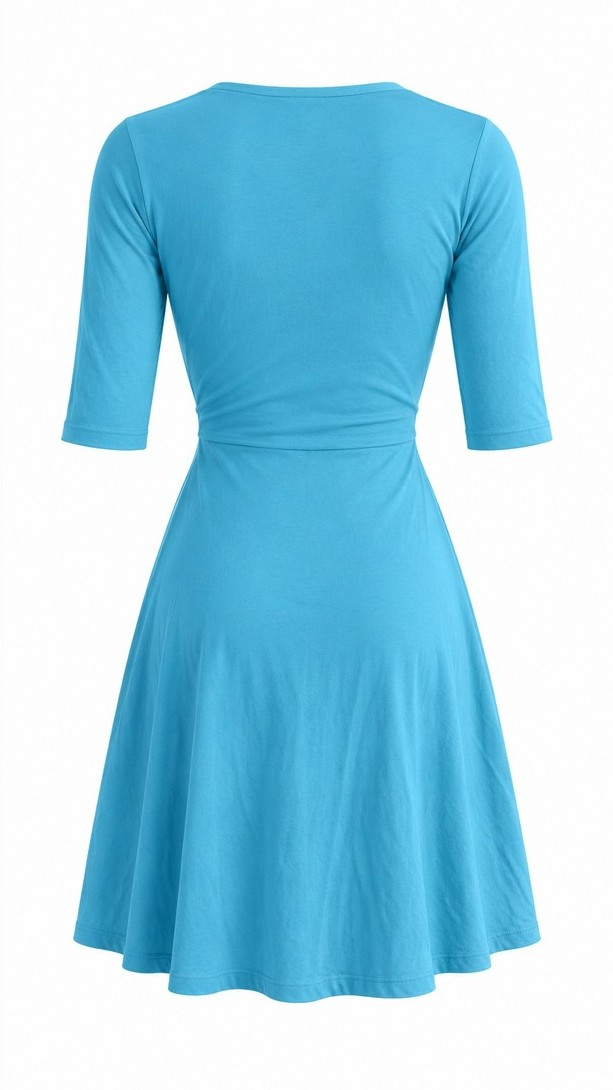
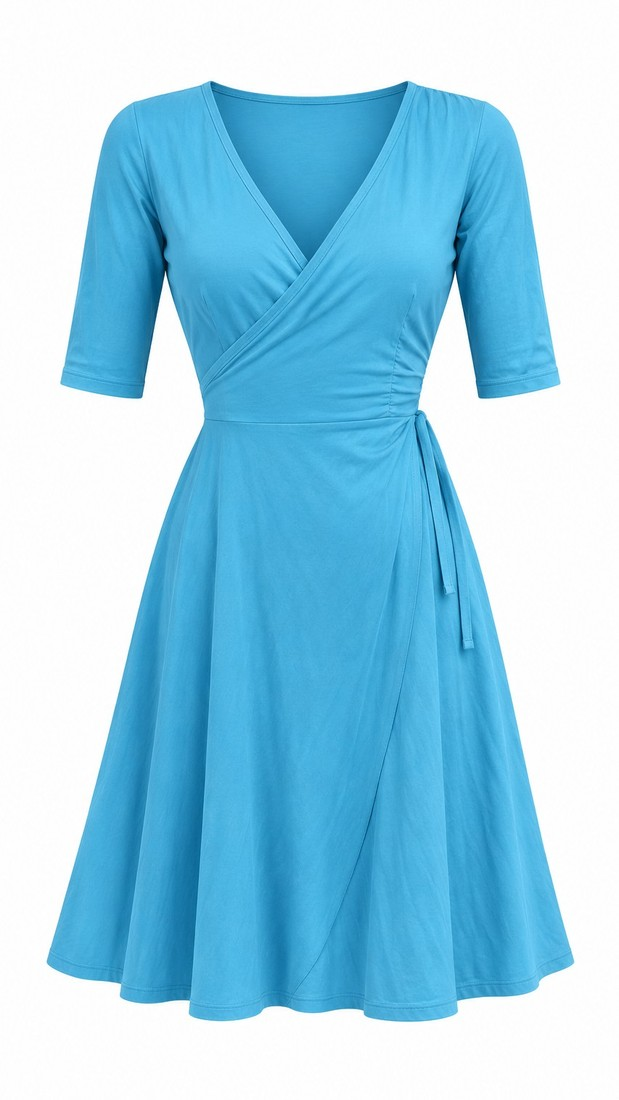
Обновление каталога 04.10.2026 22:07

diff --git a/docs/index.html b/docs/index.html
@@ -178,6 +178,33 @@
     border: 0; border-radius: 18px; background: var(--surface); cursor: pointer; font-size: 20px; line-height: 1;
   }
   .note { font-size: 16px; color: var(--muted); border-left: 2px solid var(--line); padding-left: 12px; font-style: italic; }
+  button.order { border: 0; width: 100%; cursor: pointer; font-family: inherit; }
+  .order.incart { background: var(--ink); }
+  .quick { align-self: center; font-size: 15px; color: var(--muted); font-style: italic; }
+  .quick a { color: inherit; }
+  .incart-mark { position: absolute; right: 8px; top: 8px; padding: 4px 9px; font-size: 12px; font-weight: 700; letter-spacing: .12em;
+                 text-transform: uppercase; background: var(--accent); color: var(--accent-ink); }
+  .cartbtn { position: fixed; right: 16px; bottom: calc(16px + env(safe-area-inset-bottom)); z-index: 5; display: none;
+             align-items: center; gap: 10px; min-height: 52px; padding: 0 20px; border: 0; cursor: pointer;
+             background: var(--accent); color: var(--accent-ink); font: 700 15px var(--body); letter-spacing: .14em; text-transform: uppercase;
+             box-shadow: 0 6px 24px rgba(20, 20, 20, .18); }
+  .cartbtn.show { display: inline-flex; }
+  .cartbtn b { display: inline-grid; place-items: center; min-width: 26px; height: 26px; border-radius: 13px; background: var(--accent-ink); color: var(--accent); font-size: 14px; letter-spacing: 0; }
+  #cartDlg { width: min(560px, calc(100vw - 32px)); max-height: calc(100dvh - 32px); padding: 0; border: 0; background: var(--ground); color: var(--ink); }
+  #cartDlg::backdrop { background: rgba(20, 20, 20, .55); }
+  .cart { padding: 24px; display: grid; gap: 16px; }
+  .cart h3 { margin: 0; font: 400 30px var(--display); }
+  .cart ul { list-style: none; margin: 0; padding: 0; display: grid; gap: 12px; }
+  .cart li { display: grid; grid-template-columns: 56px 1fr auto auto; gap: 12px; align-items: center; border-bottom: 1px solid var(--line); padding-bottom: 12px; }
+  .cart li img { width: 56px; aspect-ratio: 9 / 16; object-fit: cover; background: var(--surface); display: block; }
+  .cart .t { font-weight: 600; font-size: 17px; }
+  .cart .s { color: var(--muted); font-size: 14px; letter-spacing: .06em; }
+  .cart .pr { font-weight: 700; font-variant-numeric: tabular-nums; white-space: nowrap; }
+  .cart .rm { border: 0; background: none; font-size: 22px; line-height: 1; cursor: pointer; color: var(--muted); padding: 4px 6px; }
+  .cart .total { display: flex; justify-content: space-between; font-size: 20px; font-weight: 700; }
+  .cart .after { margin: 0; color: var(--muted); font-style: italic; font-size: 15px; }
+  .cart .empty-cart { color: var(--muted); font-style: italic; margin: 0; }
+  .cart .clear { justify-self: center; border: 0; background: none; color: var(--muted); text-decoration: underline; cursor: pointer; font: italic 15px var(--body); }
 
   @media (prefers-reduced-motion: reduce) { * { transition: none !important; scroll-behavior: auto !important; } }
 </style>
@@ -188,7 +215,7 @@
     <img class="logo" src="logo.png" alt="Shantisa by Mila Tumanova" width="650" height="174">
     <p class="tagline">Мы не создаём платья — мы создаём состояния</p>
     <h1>Архив Shantisa. Последние вещи, созданные <em>Милой Тумановой.</em></h1>
-    <p class="lede">Каждая вещь в одном экземпляре, повторов не будет. Выберите вещь, нажмите «Заказать» — менеджер ответит в Telegram и всё оформит.</p>
+    <p class="lede">Каждая вещь в одном экземпляре, повторов не будет. Добавьте понравившиеся вещи в корзину и отправьте заказ — менеджер ответит в Telegram и всё оформит.</p>
   </header>
 
   <div class="bar" role="toolbar" aria-label="Фильтр">
@@ -205,7 +232,7 @@
   <section class="how" id="how">
     <h2>Как купить</h2>
     <ol class="steps">
-      <li><b>Напишите менеджеру</b><span>Кнопка «Заказать» в карточке вещи откроет Telegram с уже написанным артикулом.</span></li>
+      <li><b>Соберите корзину</b><span>Добавьте вещи в корзину и нажмите «Отправить менеджеру» — откроется Telegram с готовым списком.</span></li>
       <li><b>Бронь на 24 часа</b><span>Менеджер подтвердит наличие, ответит про посадку и посчитает доставку.</span></li>
       <li><b>Оплата переводом по СБП</b><span>Пришлём ссылку на перевод с точной суммой. Реквизиты — только в переписке.</span></li>
       <li><b>Отправка и трек-номер</b><span>Отправляем в течение 2 дней после оплаты и присылаем трек.</span></li>
@@ -225,6 +252,13 @@
   </footer>
 </div>
 
+<button class="cartbtn" id="cartBtn" type="button" aria-label="Открыть корзину">Корзина <b id="cartCount">0</b></button>
+
+<dialog id="cartDlg" aria-labelledby="cartTitle">
+  <button class="close" id="cartClose" aria-label="Закрыть">×</button>
+  <div class="cart" id="cart"></div>
+</dialog>
+
 <dialog id="dlg" aria-labelledby="dlgTitle">
   <button class="close" id="dlgClose" aria-label="Закрыть">×</button>
   <div class="sheet" id="sheet"></div>
@@ -234,7 +268,7 @@
   // Telegram-ник менеджера, без @. Заменить перед публикацией.
   const MANAGER = "QqoldGM";
 </script>
-<script src="products.js?v=fbef33b4"></script>
+<script src="products.js?v=c13703e4"></script>
 <script>
 (function () {
   const items = window.PRODUCTS || [];
@@ -256,6 +290,48 @@
   const tagFor = (p) => p.status === "sold" ? "Продано" : p.status === "reserved" ? "В брони" : "";
 
   $("footerTg").href = tgLink("Здравствуйте! У меня вопрос про архив Shantisa.");
+
+  // Корзина: артикулы выбранных вещей, хранятся только в браузере покупательницы.
+  const byVariant = {};
+  items.forEach((p) => p.variants.forEach((v) => { byVariant[v.id] = { p, v }; }));
+  let cart = [];
+  try { cart = JSON.parse(localStorage.getItem("shantisa-cart") || "[]"); } catch (e) { cart = []; }
+  cart = cart.filter((id, i, a) => byVariant[id] && byVariant[id].v.status === "available" && a.indexOf(id) === i);
+  const saveCart = () => {
+    try { localStorage.setItem("shantisa-cart", JSON.stringify(cart)); } catch (e) {}
+    $("cartCount").textContent = cart.length;
+    $("cartBtn").classList.toggle("show", cart.length > 0);
+  };
+  const cartLine = (id, i) => {
+    const { p, v } = byVariant[id];
+    return `${i + 1}. ${v.id} «${p.title || p.name}», ${p.color}, ${v.size ? "размер " + v.size : "размер подскажите"} — ${rub(p.price)}`;
+  };
+  function openCart() {
+    const total = cart.reduce((s, id) => s + (byVariant[id].p.price || 0), 0);
+    const text = cart.length ? "Здравствуйте! Хочу заказать:\n" + cart.map(cartLine).join("\n") + "\nИтого: " + rub(total) : "";
+    $("cart").innerHTML = `
+      <h3 id="cartTitle">Корзина</h3>
+      ${cart.length ? `<ul>${cart.map((id) => { const { p, v } = byVariant[id]; return `
+        <li><img src="${esc(p.photos[0] || "")}" alt="">
+          <div><div class="t">${esc(p.title || p.name)}</div><div class="s">${esc(v.id)} · ${esc(szText(v.size))}</div></div>
+          <span class="pr">${rub(p.price)}</span>
+          <button class="rm" type="button" data-rm="${esc(id)}" aria-label="Убрать ${esc(p.title || p.name)}">×</button></li>`; }).join("")}</ul>
+        <div class="total"><span>Итого</span><span>${rub(total)}</span></div>
+        <a class="order" href="${esc(tgLink(text))}" target="_blank" rel="noopener">Отправить менеджеру</a>
+        <p class="after">Откроется Telegram с готовым списком. Менеджер подтвердит наличие, забронирует вещи и посчитает доставку.</p>
+        <button class="clear" type="button" id="cartClear">Очистить корзину</button>`
+      : `<p class="empty-cart">Корзина пуста. Откройте вещь и нажмите «Добавить в корзину».</p>`}`;
+    if (!$("cartDlg").open) $("cartDlg").showModal();
+  }
+  $("cart").addEventListener("click", (e) => {
+    const rm = e.target.closest("[data-rm]");
+    if (rm) { cart = cart.filter((id) => id !== rm.dataset.rm); saveCart(); render(); openCart(); }
+    if (e.target.id === "cartClear") { cart = []; saveCart(); render(); openCart(); }
+  });
+  $("cartBtn").addEventListener("click", openCart);
+  $("cartClose").addEventListener("click", () => $("cartDlg").close());
+  $("cartDlg").addEventListener("click", (e) => { if (e.target === $("cartDlg")) $("cartDlg").close(); });
+  saveCart();
 
 
   const sizeKey = (a) => { if (/лет/i.test(a)) return 200; const i = SIZE_ORDER.indexOf(a); return i < 0 ? 99 : i; };
@@ -298,7 +374,7 @@
       .sort((a, b) => rank[a.status] - rank[b.status]);
     $("grid").innerHTML = list.length ? list.map((p, i) => `
       <button class="card ${p.status}" type="button" data-id="${esc(p.id)}" aria-label="${esc(p.title || p.name)}, размеры ${sizesOf(p).map(szText).join(", ")}, ${rub(p.price)}${tagFor(p) ? ", " + tagFor(p) : ""}">
-        <div class="ph">${photo(p.photos[0], p.name, i < 4)}${tagFor(p) ? `<span class="tag">${tagFor(p)}</span>` : ""}</div>
+        <div class="ph">${photo(p.photos[0], p.name, i < 4)}${tagFor(p) ? `<span class="tag">${tagFor(p)}</span>` : ""}${p.variants.some((v) => cart.includes(v.id)) ? `<span class="incart-mark">в корзине</span>` : ""}</div>
         <div class="meta">
           <div class="row"><span class="name">${esc(p.title || p.name)}</span><span class="size">${sizeLine(p)}</span></div>
           <span class="sub">${esc(p.title ? p.name : p.color)}</span>
@@ -345,14 +421,25 @@
         </table>
         <p class="hint">Обхваты по изделию: по плоскости ×2.</p>` : `<p class="hint">Размер указан по бирке. Сомневаетесь в посадке — спросите менеджера, он подскажет по конкретной вещи.</p>`}
         ${p.note ? `<p class="note">${esc(p.note)}</p>` : ""}
-        <a class="order" id="orderBtn" target="_blank" rel="noopener"></a>
+        <button class="order" id="orderBtn" type="button"></button>
+        <p class="quick" id="quick"></p>
       </div>`;
     const setVariant = (v) => {
       $("dlgId").textContent = v.id + (v.status === "sold" ? " · Продано" : v.status === "reserved" ? " · В брони" : "");
       const btn = $("orderBtn");
-      btn.href = v.status === "sold" ? "#" : tgLink(orderText(p, v));
+      const inCart = cart.includes(v.id);
       btn.setAttribute("aria-disabled", v.status === "sold");
-      btn.textContent = v.status === "sold" ? "Этот размер продан" : v.status === "reserved" ? "Спросить, освободится ли" : "Заказать у менеджера";
+      btn.classList.toggle("incart", inCart);
+      btn.textContent = v.status === "sold" ? "Этот размер продан" : v.status === "reserved" ? "Спросить, освободится ли"
+        : inCart ? "В корзине — оформить" : "Добавить в корзину";
+      btn.onclick = () => {
+        if (v.status === "sold") return;
+        if (v.status === "reserved") { window.open(tgLink(orderText(p, v)), "_blank", "noopener"); return; }
+        if (inCart) { $("dlg").close(); openCart(); return; }
+        cart.push(v.id); saveCart(); setVariant(v); render();
+      };
+      $("quick").innerHTML = v.status === "available"
+        ? `или <a href="${esc(tgLink(orderText(p, v)))}" target="_blank" rel="noopener">написать менеджеру только про эту вещь</a>` : "";
       $("sizes").querySelectorAll(".szchip").forEach((c) => c.setAttribute("aria-pressed", c.dataset.v === v.id));
       history.replaceState(null, "", "#" + v.id);
     };

diff --git a/docs/products.js b/docs/products.js
@@ -301,9 +301,8 @@ window.PRODUCTS = [
   "price": 5000,
   "old_price": null,
   "photos": [
-   "photos/SH-12-1.jpg?v=c8107afc",
-   "photos/SH-12-2.jpg?v=5f9a3844",
-   "photos/SH-12-3.jpg?v=ba881b9f"
+   "photos/SH-12-1.jpg?v=7c7de982",
+   "photos/SH-12-2.jpg?v=07787827"
   ],
   "note": "",
   "variants": [
